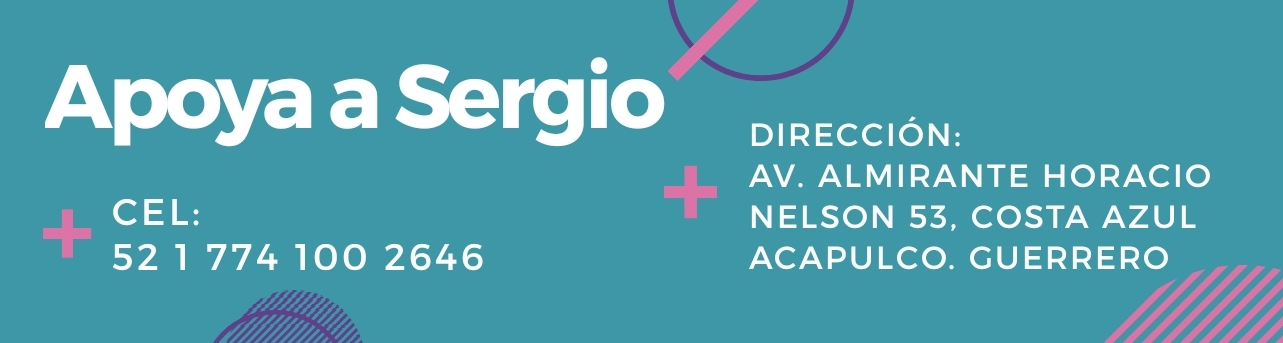
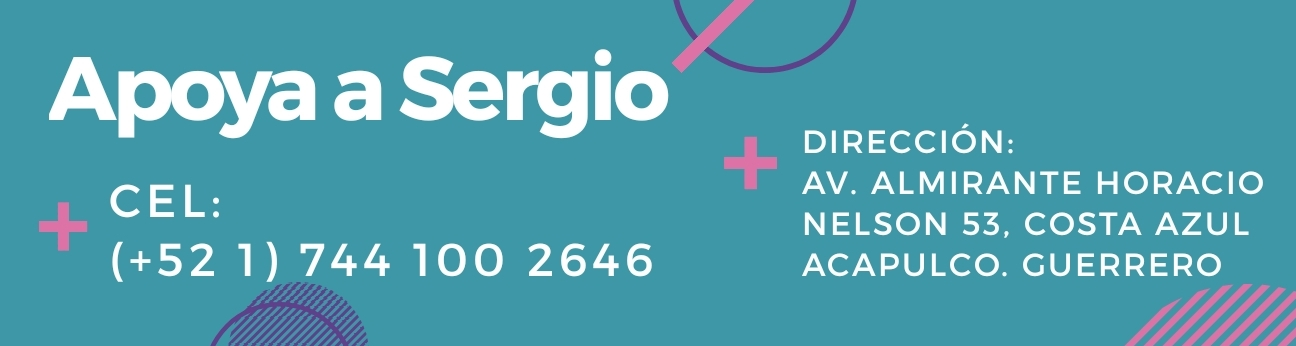
correccion telefonos

Changed region(s): [[0.4988, 0.3499, 1.0, 1.0], [0.0312, 0.0, 0.6859, 0.4373], [0.0312, 0.5248, 0.53, 1.0]]

diff --git a/erica.html b/erica.html
@@ -114,7 +114,7 @@
             </figure>
         </div>-->
 
-        <img class="responsive-img" src="assets/erica/kikadatos.jpg">
+        <img class="responsive-img" src="assets/erica/kikadatos.jpeg">
         <div class="container">
             <img class="responsive-img" src="assets/erica/kikacompras.png">
         </div>

diff --git a/index.html b/index.html
@@ -102,9 +102,9 @@
     </div>
 
   </div>
-  <div class="container-banner">
+  <!--<div class="container-banner">
     <img class="responsive-img" src="assets/img/labor2.jpeg">
-  </div>
+  </div>-->
   <section id="project-hero" class="project">
     <figure class="project-imageContainer">
       <article class="project">
